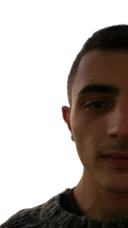
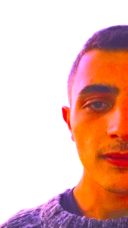
add violet me

diff --git a/_includes/main-header.html b/_includes/main-header.html
@@ -4,25 +4,29 @@
       <a href="/" class="home-link">Home</a>&nbsp;
       <a href="/posts">Posts</a>&nbsp;
       <a href="/about">About</a>&nbsp;
-      <aside class="social-links-container">
-        <a href="https://twitter.com/christian_fei" class="title-popover twitter" target="_blank" title="Follow me on Twitter" tabindex="-1">
-          {% include icons/twitter.html %}
-        </a>
-        <a href="https://github.com/christian-fei" class="title-popover github" target="_blank" title="My projects on Github" tabindex="-1">
-          {% include icons/github.html %}
-        </a>
-      </aside>
     </div>
   </nav>
   <section>
-    <div class="container" style="line-height: 2.5;">
+    <div class="container">
       <p>
         <div class="avatar-container">
           <img src="/assets/images/cf.128x128.png" class="avatar" alt="">
         </div>
-        <strong>Heyyy <span class="hand">👋🏻</span> !</strong> My name is Christian, an Agile Software Developer, living in Trento (IT).
+        <strong>Hey <span class="hand">👋🏻</span></strong>
+        <br>
+        My name is Christian, an Agile Software Developer, living in Trento (IT).
         <br>
         I write good code at <a href="https://wonderflow.co" target="_blank">Wonderflow</a> <img src="/assets/images/wonderflow.png" width="16px" alt="">.
+        <br>
+        Follow me on
+        <a href="https://twitter.com/christian_fei" class="twitter" target="_blank" title="Follow me on Twitter" tabindex="-1">
+          Twitter {% include icons/twitter.html %}
+        </a>
+        and
+        <a href="https://github.com/christian-fei" class="github" target="_blank" title="My projects on Github" tabindex="-1">
+          Github{% include icons/github.html %}
+        </a>
+
         <!-- {% unless page.url == '/about/' %}
         <br>
         You can read more <a href="/about">about me</a>.
